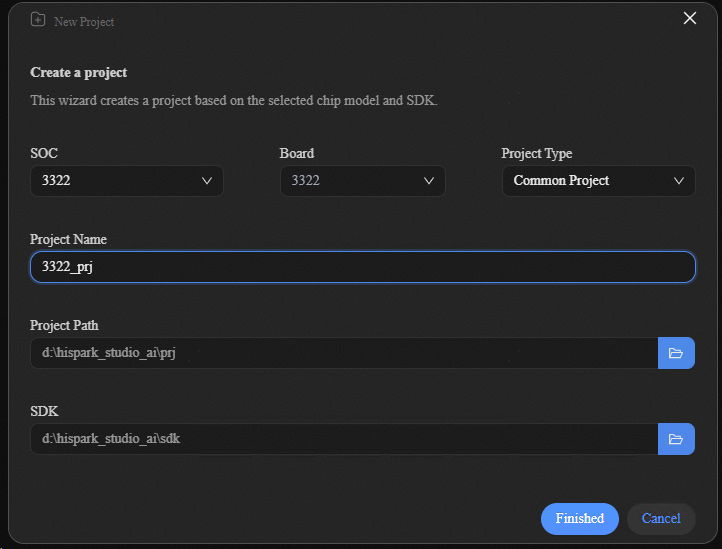
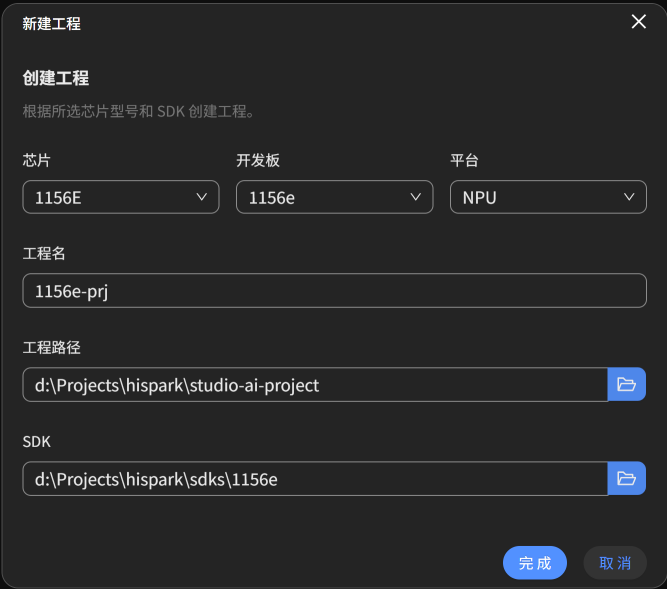
feat: 快速入门指南增加Hi1156E相关文档

diff --git a/src/samples/README.md b/src/samples/README.md
@@ -195,10 +195,10 @@ HiSpark.AI提供了以下Sample供开发参考：
 
 - **准备待部署模型与数据**
   - 准备好待部署模型。可直接使用 HiSpark.AI LeNet-5以及Gru Sample中的mnist-12.onnx以及GRU_S_STREAM.onnx。
-  - 准备好量化数据。**无需量化可跳过此步骤。** 准备一个文件夹，将float32格式的量化数据存储为.bin格式，可直接使用 HiSpark.AI LeNet-5以及Gru Sample中的 运行数据预处理脚本之后的npy_data文件夹。
+  - 准备好量化数据。**Hi1156E无需量化可跳过此步骤。** 准备一个文件夹，将float32格式的量化数据存储为.bin格式，可直接使用 HiSpark.AI LeNet-5以及Gru Sample中的 运行数据预处理脚本之后的npy_data文件夹。
 
 - **准备SDK**
-  - 从开源社区下载SDK源码
+  - 使用商用发布SDK或从开源社区下载SDK源码
 
 - **准备Samples**
   进入sample一级目录，如LeNet-5就进入{hispark_ai_root}/src/samples/OH/Lenet5目录，而Gru就进入{hispark_ai_root}/src/samples/OH/Gru目录。Sample目录结构如下：
@@ -221,8 +221,9 @@ HiSpark.AI提供了以下Sample供开发参考：
         └── CMakeLists.txt
     ```
 
-- **模型量化**
-  - 使用CANN工具链中的AMCT工具进行模型量化，具体可参考对应sample README中的量化指南
+- **Hi3322模型量化**
+ Hi1156E不涉及量化，直接参考**模型转换**章节。  
+ Hi3322使用CANN工具链中的AMCT工具进行模型量化，具体可参考对应sample README中的量化指南。
   ```
   amct_onnx calibration --model "xxx" --save_path "xxx" --input_shape "xxx" --data_dir "xxx" --data_types "xxx" --batch_num xxx
   ```
@@ -249,13 +250,10 @@ HiSpark.AI提供了以下Sample供开发参考：
   - --output：存放转换后的离线模型的路径以及文件名
   - --input_fp16_nodes：指定输入数据类型为FP16的输入节点名称
   - --output_type：指定网络输出数据类型
-  - --soc_version：指定模型转换时昇腾AI处理器的版本
+  - --soc_version：指定模型转换时昇腾AI处理器的版本。Hi3322指定：Ascend035A；Hi1156E指定：Ascend031。
   - --input_shape：指定模型输入数据的shape
-  - --mode：运行模式
-
-  运行成功后生成
-  - mode选择30：xxx.exeom
-  - mode选择0：xxx.om
+  - --mode：运行模式。Hi3322指定30；Hi1156E指定0。
+  模型转换成功后Hi3322生成后缀exeom的模型，Hi1156E生成后缀om的模型。
 
 - **3322 SDK编译**
     配置对应环境变量，在具体sample（如gru）下运行build_npu.sh脚本，即可完成编译
